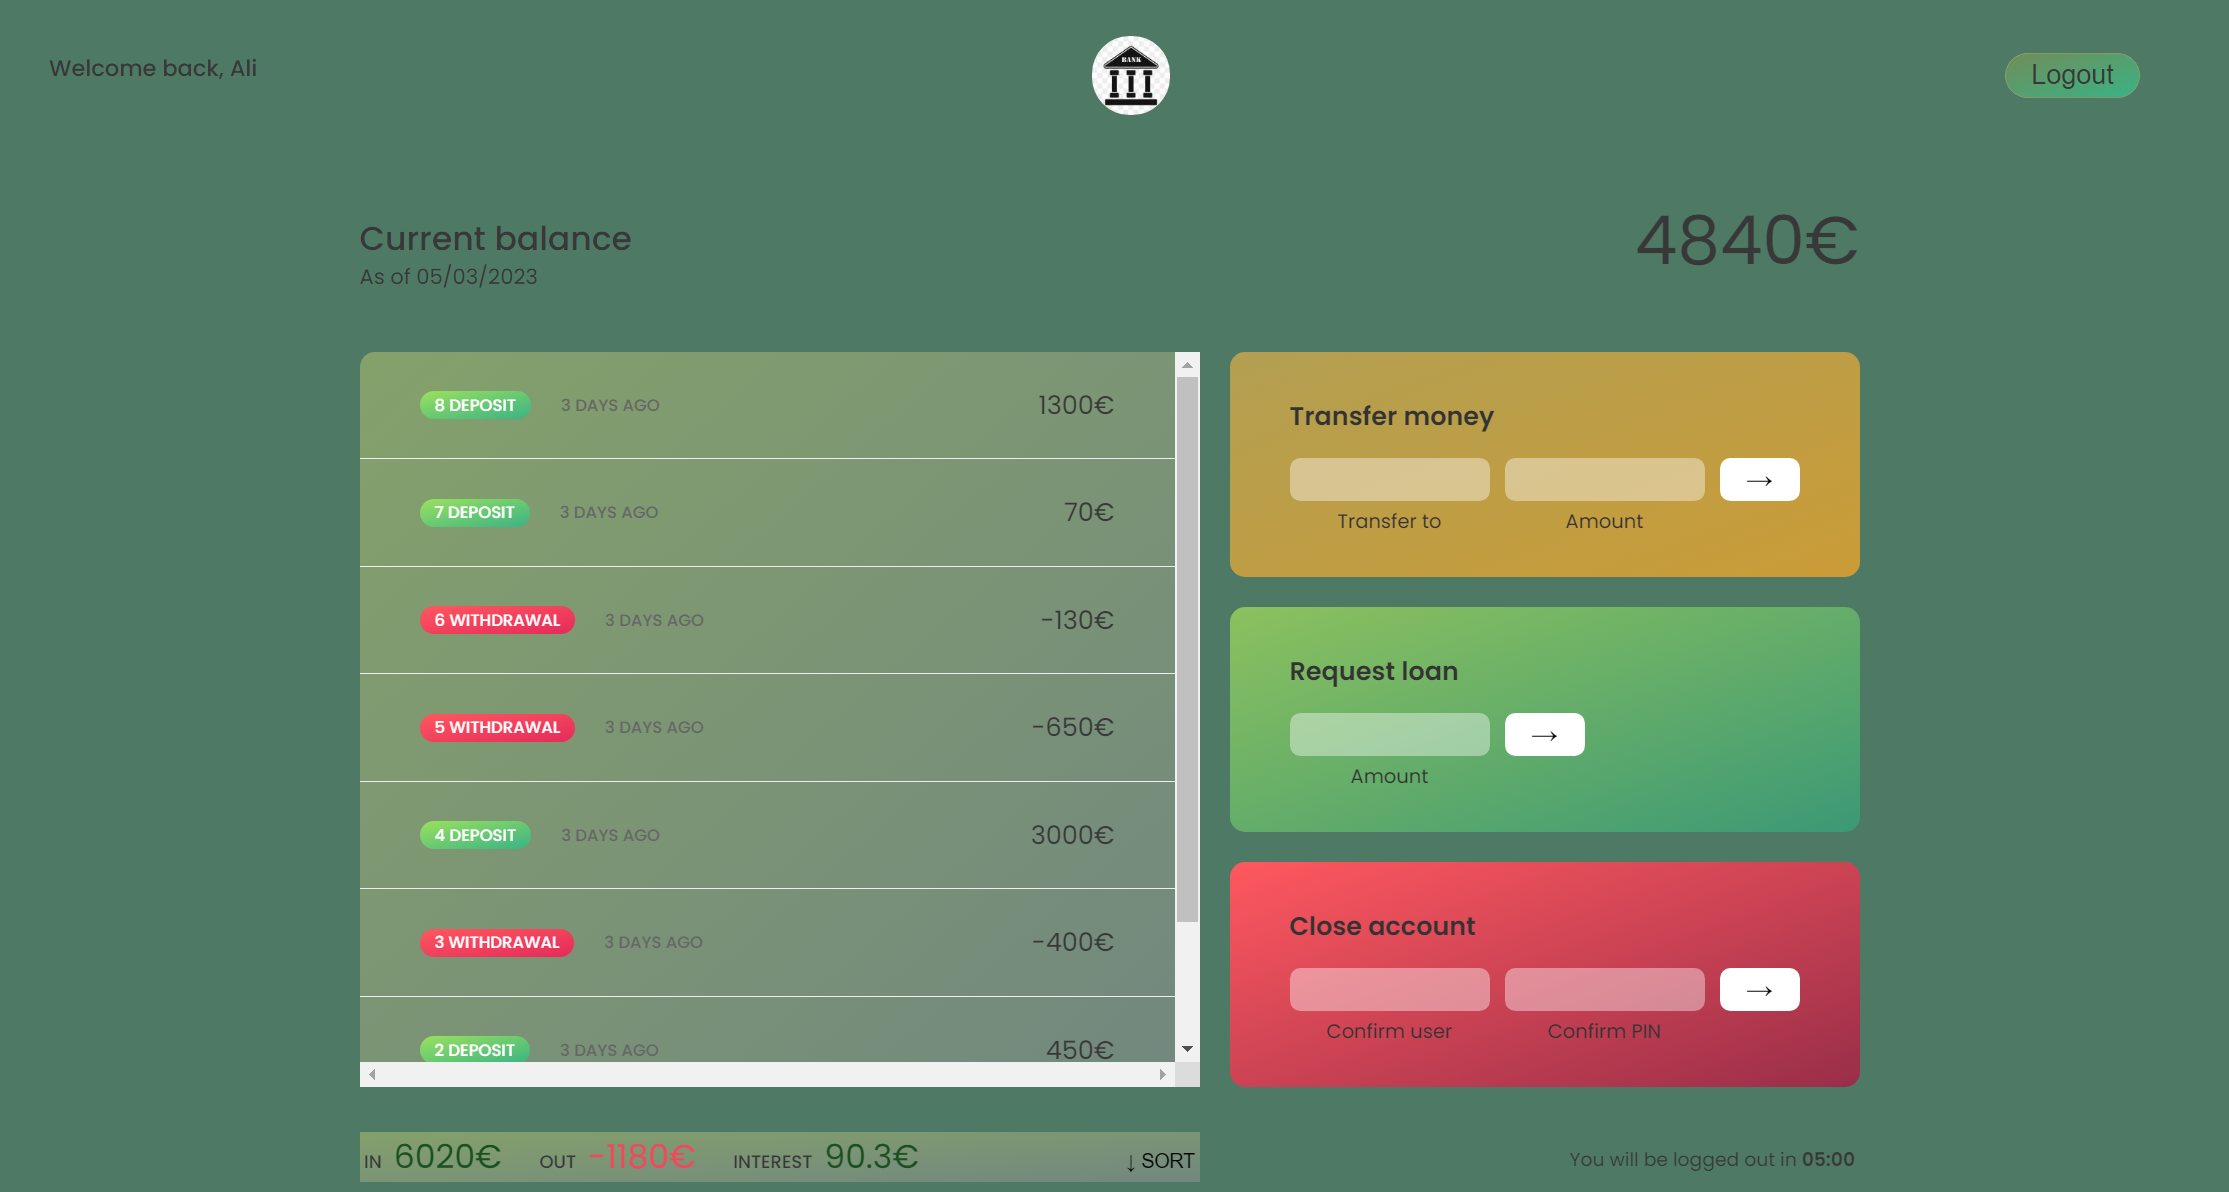
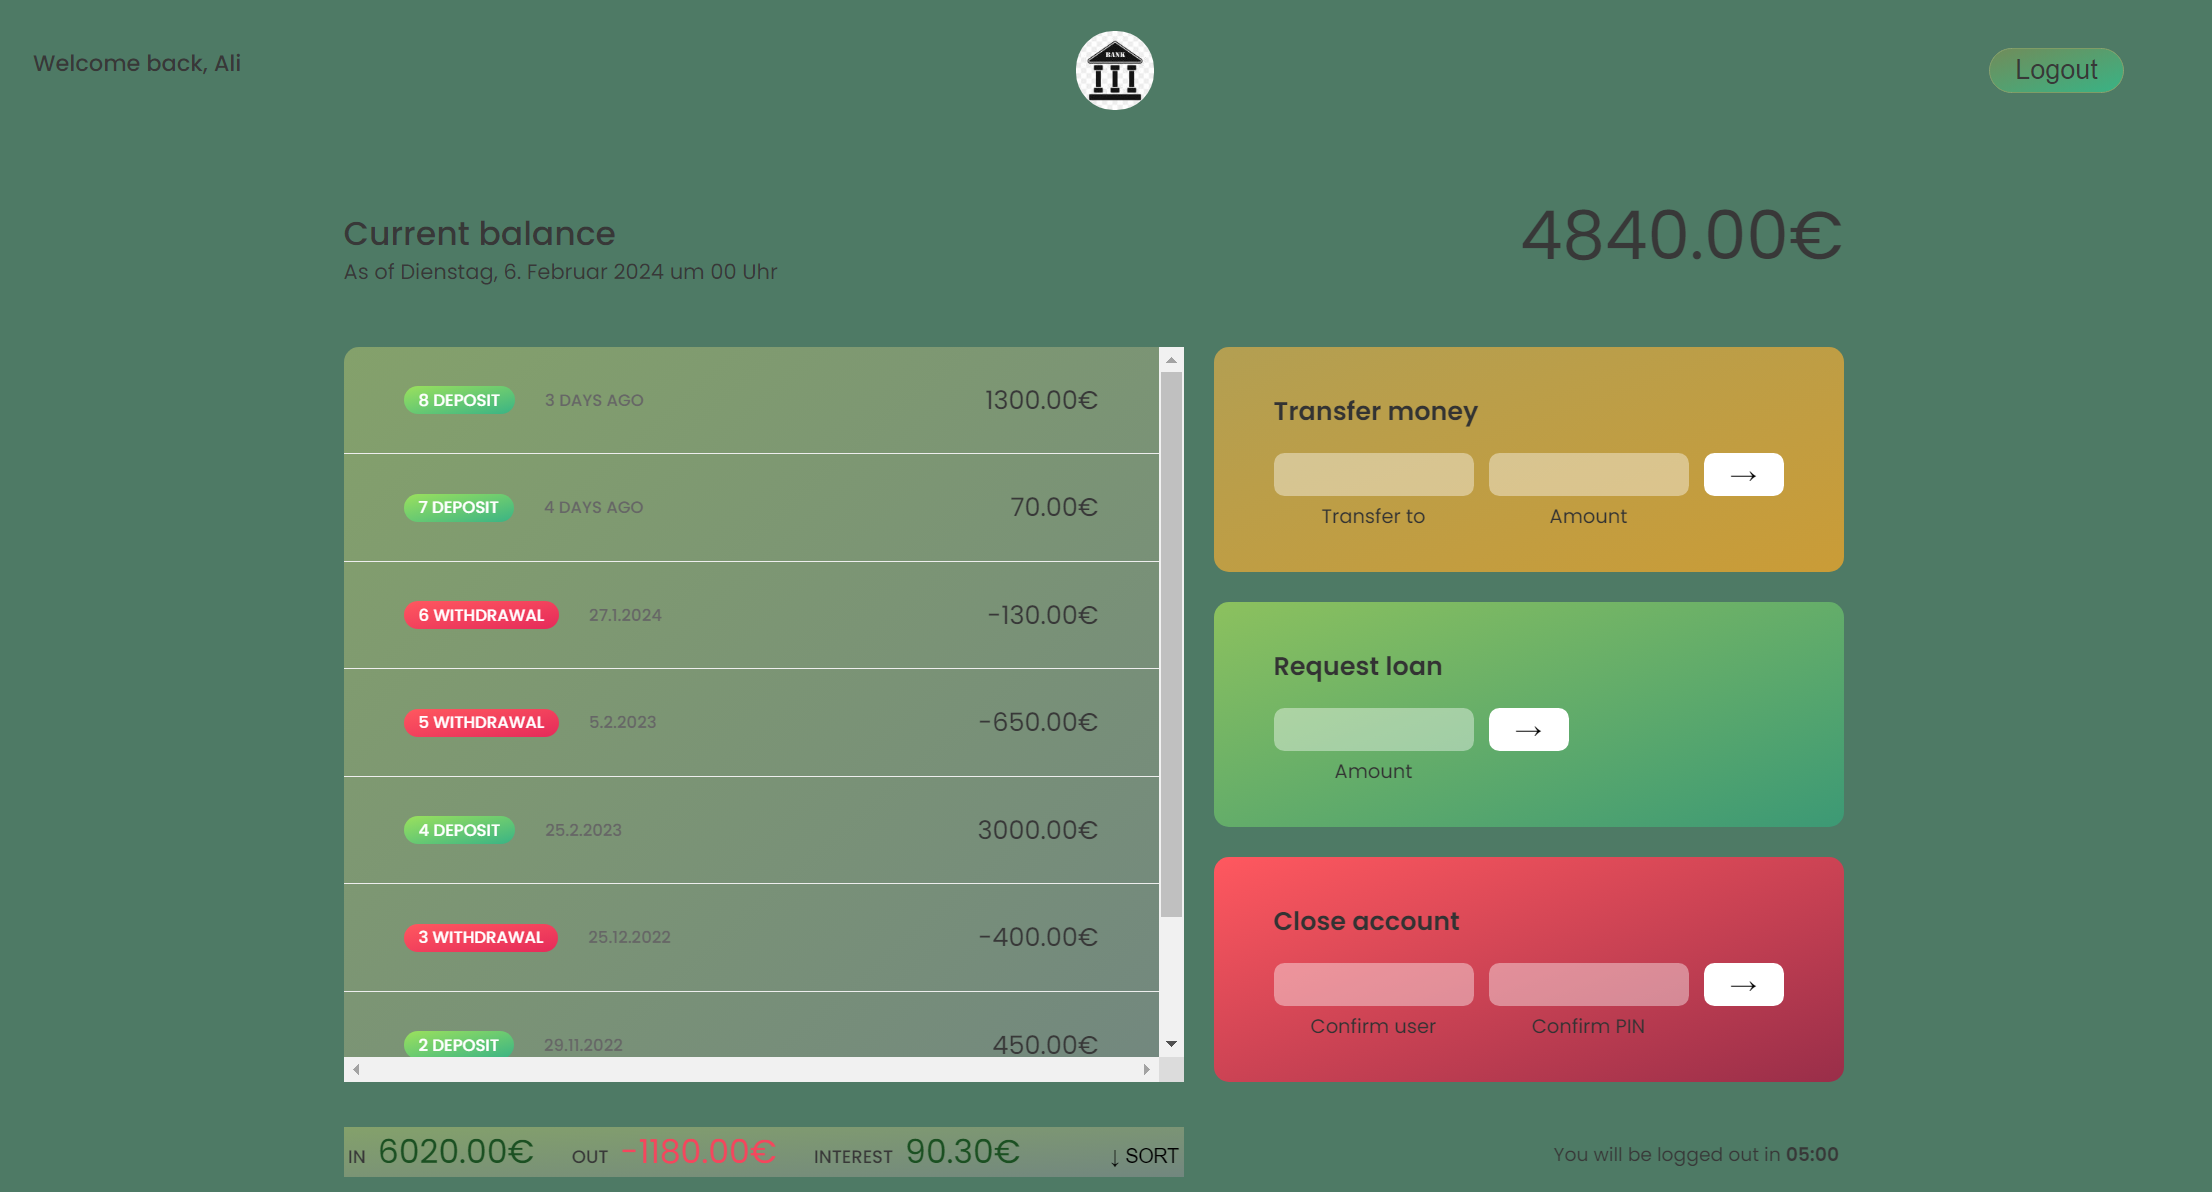
Currency Format

diff --git a/script.js b/script.js
@@ -17,6 +17,7 @@ const account1 = {
     '2024-02-03T10:51:36.790Z',
   ],
   locale: 'de-DE',
+  currency: 'EUR',
 };
 
 const account2 = {
@@ -35,6 +36,7 @@ const account2 = {
     '2023-08-26T12:01:20.894Z',
   ],
   locale: 'de-DE',
+  currency: 'EUR',
 };
 
 const account3 = {
@@ -52,7 +54,8 @@ const account3 = {
     '2023-06-25T18:49:59.371Z',
     '2023-07-26T12:01:20.894Z',
   ],
-  locale:'pt-PT'
+  locale: 'pt-PT',
+  currency: 'EUR',
 };
 
 const account4 = {
@@ -71,6 +74,7 @@ const account4 = {
     '2023-09-26T12:01:20.894Z',
   ],
   locale: 'en-US',
+  currency: 'USD',
 };
 
 const accounts = [account1, account2, account3, account4];
@@ -121,7 +125,7 @@ const createUsernames = function (accounts) {
 createUsernames(accounts);
 
 // Calculate current date and Movement Date
-const calcMovementsDate = function (date,locale) {
+const calcMovementsDate = function (date, locale) {
   const calcPassedDays = (date1, date2) =>
     Math.round(Math.abs(date2 - date1) / (1000 * 60 * 60 * 24));
   const daysPassed = calcPassedDays(new Date(), date);
@@ -130,8 +134,16 @@ const calcMovementsDate = function (date,locale) {
   if (daysPassed === 1) return 'Yesterday';
   if (daysPassed < 7) return `${daysPassed} days ago`;
   else {
-    return new Intl.DateTimeFormat(locale).format(date)
+    return new Intl.DateTimeFormat(locale).format(date);
   }
+};
+
+// Format Currency
+const formatCurrency = function (value, locale, currency) {
+  return new Intl.NumberFormat(locale, {
+    style: 'currency',
+    currency: currency,
+  }).format(value);
 };
 
 // --- function to display Movements Deposit/Witdraw
@@ -152,14 +164,20 @@ const displayMovements = function (account, sort = false) {
     // Dates
     const date = new Date(account.movementsDates[i]);
 
-    const displayDate = calcMovementsDate(date,account.locale);
+    const displayDate = calcMovementsDate(date, account.locale);
+    // Currency format
+    const formatCurrencyMovemenets = formatCurrency(
+      mov,
+      account.locale,
+      account.currency
+    );
 
     const html = `
      <div class="movements__row">
           <div class="movements__type movements__type--${type}">
           ${i + 1} ${type}</div>
           <div class="movements__date">${displayDate}</div>
-          <div class="movements__value">${mov.toFixed(2)}€</div>
+          <div class="movements__value">${formatCurrencyMovemenets}</div>
       </div>
       `;
     // Inserting in html class after element tag start so any child element will display after previous one therefore latest stay all top
@@ -173,7 +191,12 @@ const calcDisplayBalance = function (account) {
   account.balance = account.movements.reduce(function (acc, currentBalance) {
     return acc + currentBalance;
   }, 0);
-  labelBalance.textContent = `${account.balance.toFixed(2)}€`;
+   const formattedBalance = formatCurrency(
+     account.balance,
+     account.locale,
+     account.currency
+   );
+  labelBalance.textContent = `${formattedBalance}`;
 };
 
 // -----Display Summary--------
@@ -182,20 +205,33 @@ const calcDisplaySummary = function (account) {
   const income = account.movements
     .filter(mov => mov > 0)
     .reduce((acc, crr) => acc + crr);
-  labelSumIn.textContent = `${income.toFixed(2)}€`;
+      const formattedIncome = formatCurrency(
+        income,
+        account.locale,
+        account.currency
+      );
+  labelSumIn.textContent = `${formattedIncome}`;
 
   // Sum_Out
   const withdrawal = account.movements
     .filter(mov => mov < 0)
     .reduce((acc, crr) => acc + crr);
-  labelSumOut.textContent = `${withdrawal.toFixed(2)}€`;
+  labelSumOut.textContent = formatCurrency(
+    withdrawal,
+    account.locale,
+    account.currency
+  );
 
   // Interest
   const interest = account.movements
     .filter(mov => mov > 0)
     .map(deposit => deposit * 0.015) // 1.5% Interest on Deposits
     .reduce((acc, crr) => acc + crr);
-  labelSumInterest.textContent = `${interest.toFixed(2)}€`;
+  labelSumInterest.textContent = formatCurrency(
+    interest,
+    account.locale,
+    account.currency
+  );
 };
 
 // Update UI
@@ -230,9 +266,9 @@ btnLogin.addEventListener('click', function (e) {
     // conatinerLogin.innerHTML = '';
     containerNav.style.opacity = 100;
     containerApp.style.opacity = 100;
-  
+
     // create current date and time
-    const nowInt = new Date();
+    const now = new Date();
     const options = {
       hour: 'numeric',
       mintute: 'numeric',
@@ -241,7 +277,6 @@ btnLogin.addEventListener('click', function (e) {
       year: 'numeric',
       weekday: 'long',
     };
-   
     const locale = currentAccount.locale;
     labelDate.textContent = new Intl.DateTimeFormat(locale, options).format(
       now
